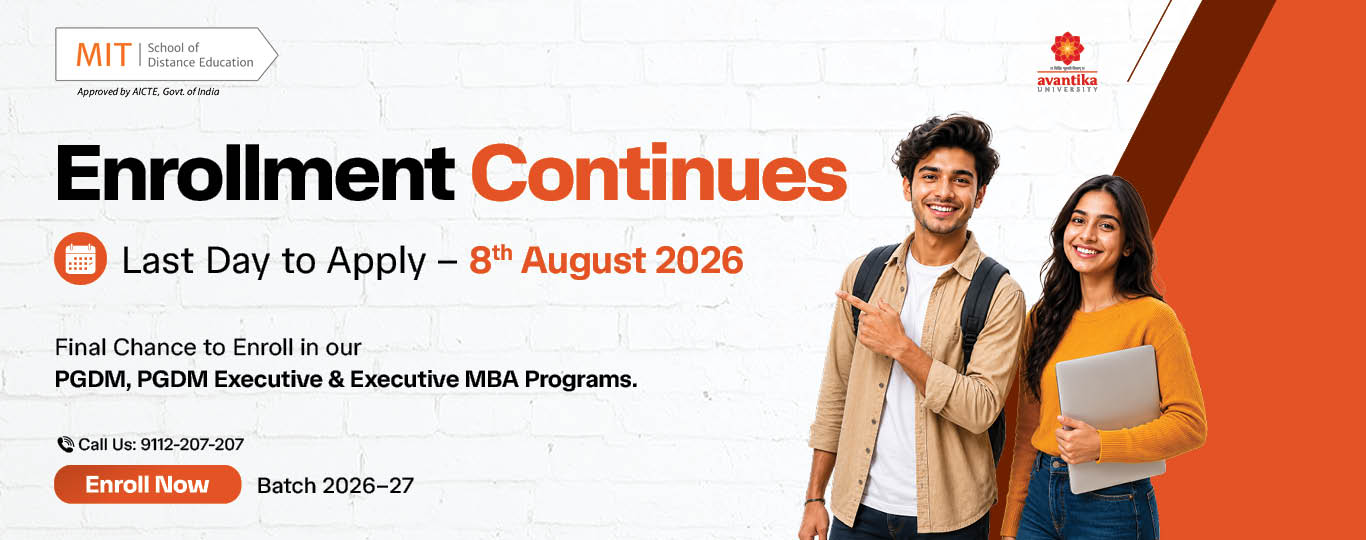
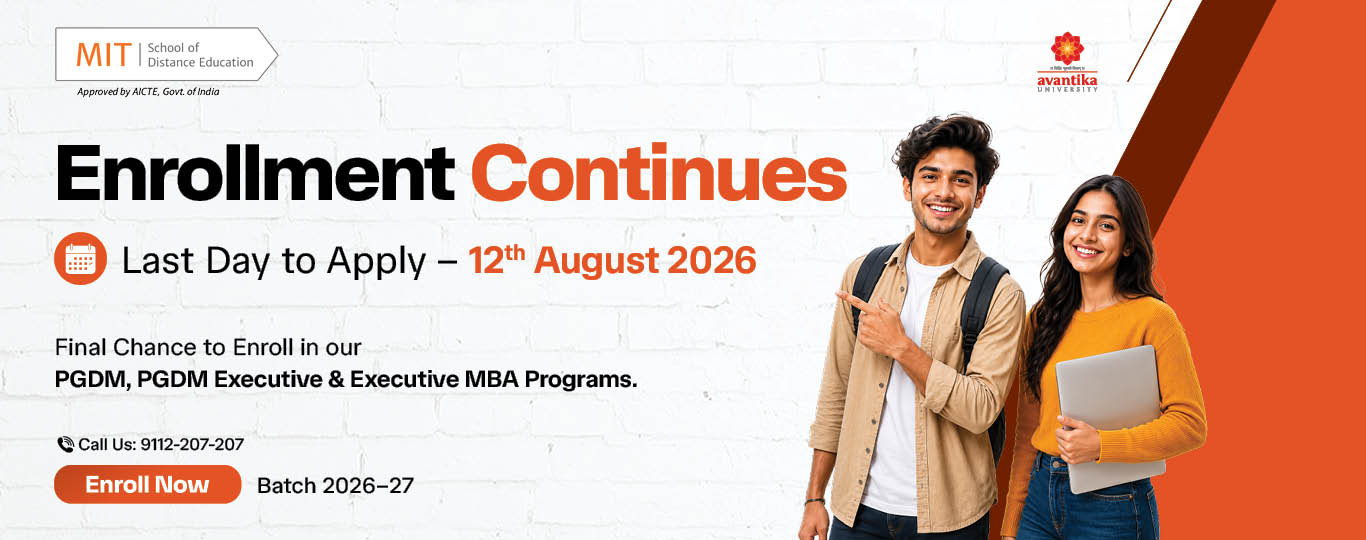
change in last date 12 august

Changed region(s): [[0.3382, 0.4444, 0.5534, 0.5333]]

diff --git a/announcementUpdate.php b/announcementUpdate.php
@@ -2,7 +2,7 @@
     <div class="container">
         <div class="row">
             <div class="ann-box">
-                <p style="font-size: 15.5px;">Last Day Left! Apply before <span class="blinklastdate"> 08th August 2026
+                <p style="font-size: 15.5px;">Last Day Left! Apply before <span class="blinklastdate"> 12th August 2026
                     </span> to enroll in the final batch. Call now:<a href="tel:9112207207"
                         style="text-decoration: none; padding: 0px !important;"> 9112-207-207</a> <a href="roi" style="color: white; font-weight: 400;">Calculate Your Career ROI in 30 Seconds →</a>
                     </p>
